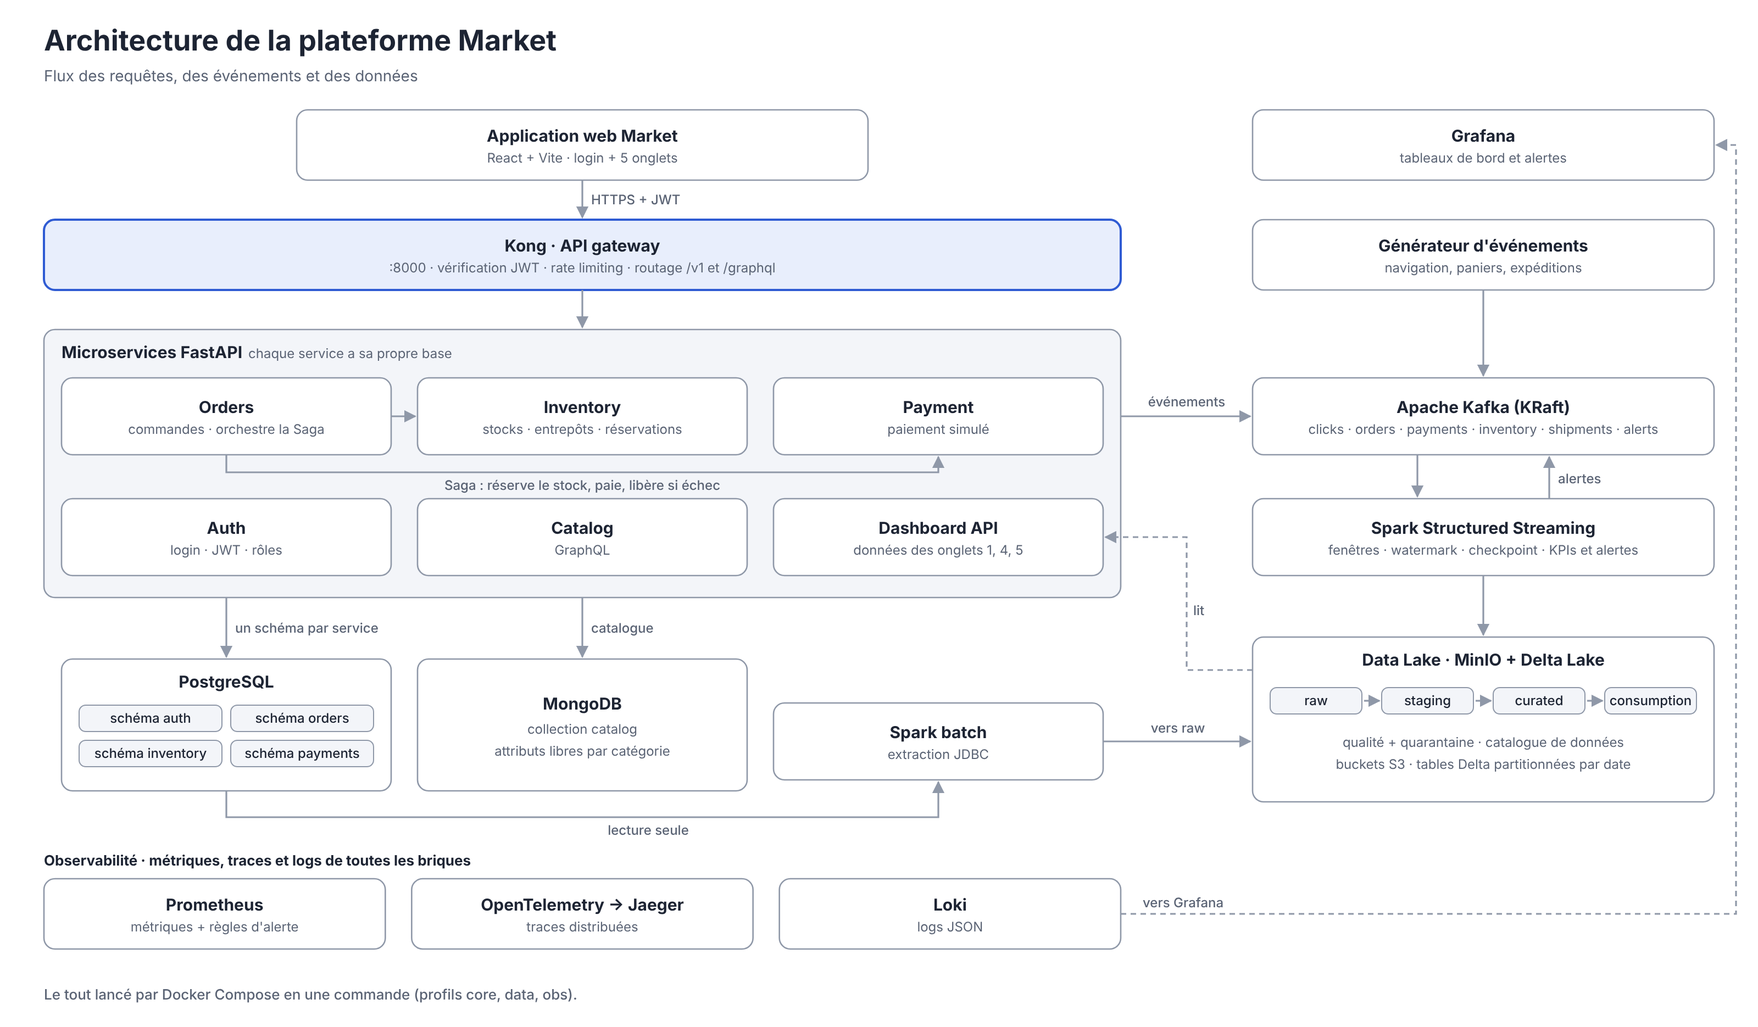
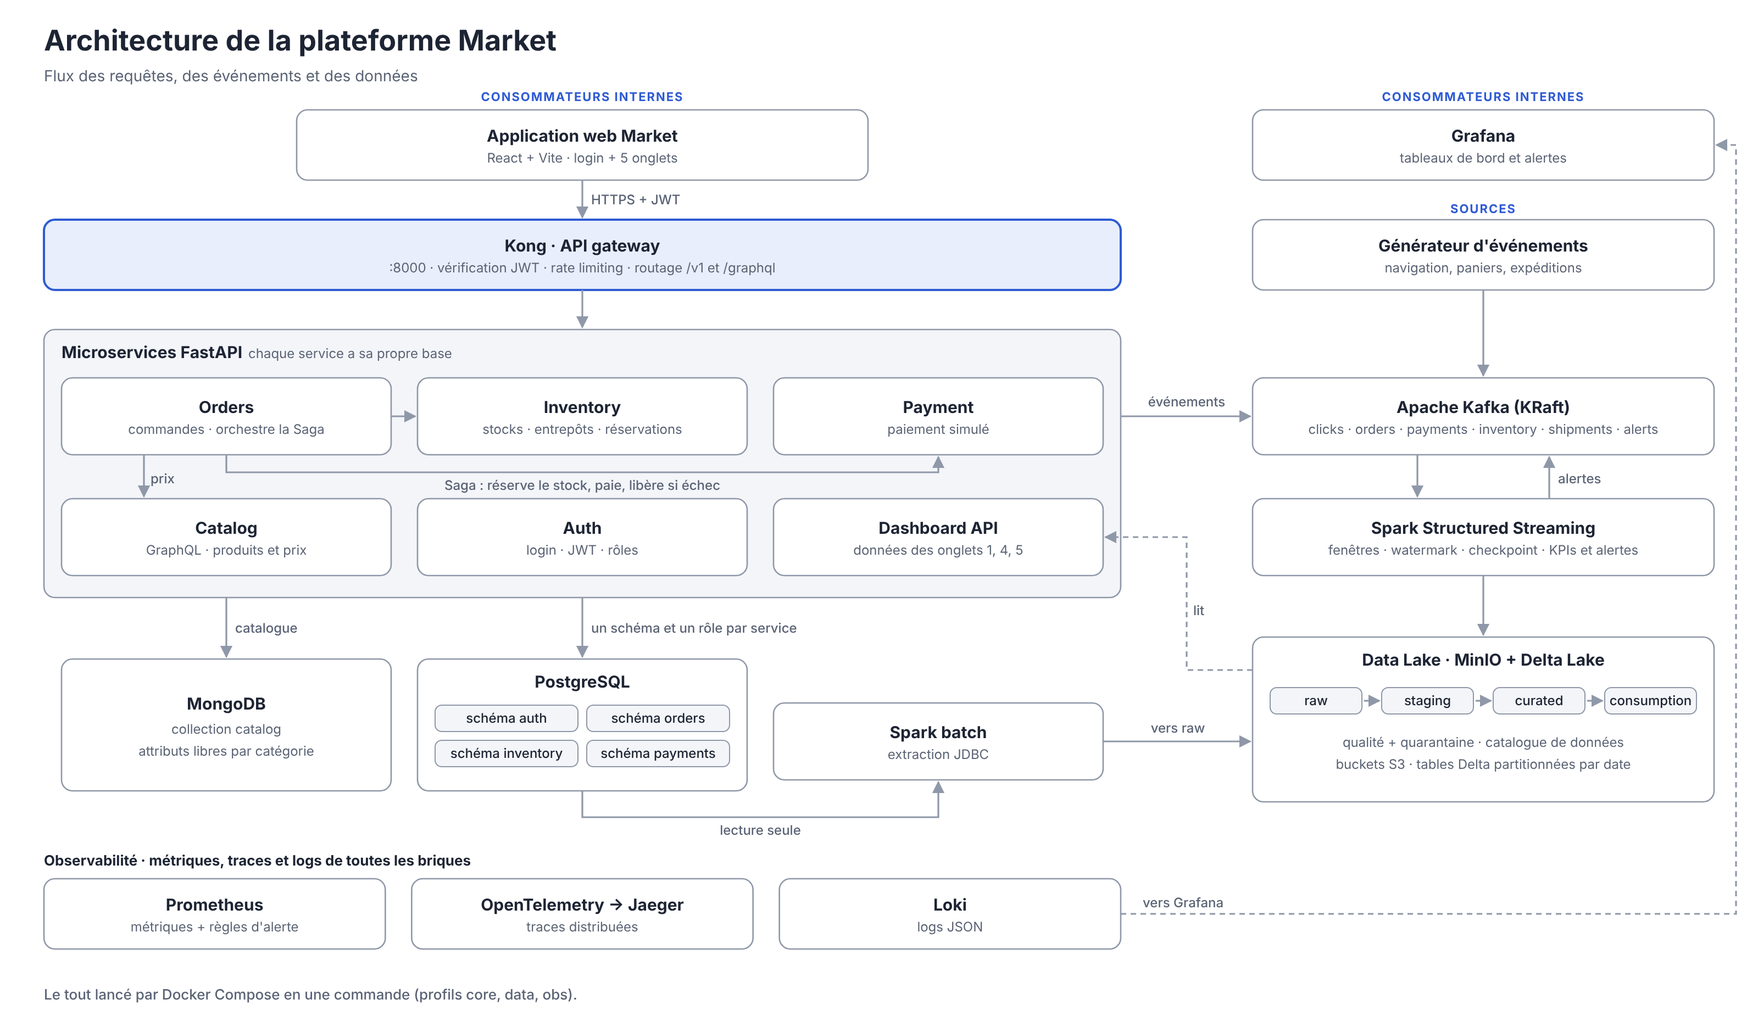
Align with the brief: rights matrix, user id in JWT, role assignment, ADRs per volet
- RBAC matrix now matches the brief table (tested row by row)
- PUT /v1/inventory/{product_id} and POST /v1/admin/roles added to contracts and services
- JWT sub is the user id, never the email
- Diagram: Orders calls Catalog, sources and internal consumers labelled
- Rationale: where streaming is used or not, per role
- ADR 004 (lake), 005 (gateway and resilience), 006 (streaming guarantees)
- Exclude docs from ruff

diff --git a/docs/architecture/build_diagram.py b/docs/architecture/build_diagram.py
@@ -24,11 +24,14 @@ MID = (L0 + L1) / 2
 GAP = (L1 + R0) / 2
 RC = (R0 + R1) / 2
 # row A
+t(MID, 92, "CONSOMMATEURS INTERNES", 11, 700, ACC, "middle", 'letter-spacing="1"')
+t(RC, 92, "CONSOMMATEURS INTERNES", 11, 700, ACC, "middle", 'letter-spacing="1"')
 box(MID - 260, 100, 520, 64, "Application web Market", "React + Vite · login + 5 onglets")
 box(R0, 100, R1 - R0, 64, "Grafana", "tableaux de bord et alertes")
 path(f"M{MID} 164 V198", "HTTPS + JWT", MID + 8, 186)
 # row B
 box(L0, 200, L1 - L0, 64, "Kong · API gateway", ":8000 · vérification JWT · rate limiting · routage /v1 et /graphql", hi=True)
+t(RC, 194, "SOURCES", 11, 700, ACC, "middle", 'letter-spacing="1"')
 box(R0, 200, R1 - R0, 64, "Générateur d'événements", "navigation, paniers, expéditions")
 path(f"M{MID} 264 V298")
 # services container
@@ -39,12 +42,14 @@ bw = (IN - 48) / 3; cx = [L0 + 16, L0 + 16 + bw + 24, L0 + 16 + 2 * (bw + 24)]
 box(cx[0], 344, bw, 70, "Orders", "commandes · orchestre la Saga")
 box(cx[1], 344, bw, 70, "Inventory", "stocks · entrepôts · réservations")
 box(cx[2], 344, bw, 70, "Payment", "paiement simulé")
-box(cx[0], 454, bw, 70, "Auth", "login · JWT · rôles")
-box(cx[1], 454, bw, 70, "Catalog", "GraphQL")
+box(cx[0], 454, bw, 70, "Catalog", "GraphQL · produits et prix")
+box(cx[1], 454, bw, 70, "Auth", "login · JWT · rôles")
 box(cx[2], 454, bw, 70, "Dashboard API", "données des onglets 1, 4, 5")
 path(f"M{cx[0]+bw} 379 H{cx[1]-2}")
 t(cx[0] + bw + 12, 372, "", 11)
 oc, pc = cx[0] + bw / 2, cx[2] + bw / 2
+qx = cx[0] + bw * 0.25
+path(f"M{qx} 414 V452", "prix", qx + 6, 440)
 path(f"M{oc} 414 V430 H{pc} V416", "Saga : réserve le stock, paie, libère si échec", (oc + pc) / 2, 446, "middle")
 # right column streaming
 box(R0, 344, R1 - R0, 70, "Apache Kafka (KRaft)", "clicks · orders · payments · inventory · shipments · alerts")
@@ -67,19 +72,20 @@ t(RC, 680, "qualité + quarantaine · catalogue de données", 12, 400, GREY, "mi
 t(RC, 700, "buckets S3 · tables Delta partitionnées par date", 12, 400, GREY, "middle")
 path(f"M{RC} 524 V578")
 # databases
-r(cx[0], 600, bw, 120)
-t(cx[0] + bw / 2, 626, "PostgreSQL", 15, 700, a="middle")
+r(cx[1], 600, bw, 120)
+t(cx[1] + bw / 2, 626, "PostgreSQL", 15, 700, a="middle")
 cw = (bw - 40) / 2
 for i, s in enumerate(["schéma auth", "schéma orders", "schéma inventory", "schéma payments"]):
-    chip(cx[0] + 16 + (i % 2) * (cw + 8), 642 + (i // 2) * 32, cw, s)
-r(cx[1], 600, bw, 120)
-t(cx[1] + bw / 2, 646, "MongoDB", 15, 700, a="middle")
-t(cx[1] + bw / 2, 668, "collection catalog", 12, 400, GREY, "middle")
-t(cx[1] + bw / 2, 688, "attributs libres par catégorie", 12, 400, GREY, "middle")
+    chip(cx[1] + 16 + (i % 2) * (cw + 8), 642 + (i // 2) * 32, cw, s)
+r(cx[0], 600, bw, 120)
+t(cx[0] + bw / 2, 646, "MongoDB", 15, 700, a="middle")
+t(cx[0] + bw / 2, 668, "collection catalog", 12, 400, GREY, "middle")
+t(cx[0] + bw / 2, 688, "attributs libres par catégorie", 12, 400, GREY, "middle")
 box(cx[2], 640, bw, 70, "Spark batch", "extraction JDBC")
-path(f"M{oc} 544 V598", "un schéma par service", oc + 8, 576)
-path(f"M{cx[1]+bw/2} 544 V598", "catalogue", cx[1] + bw / 2 + 8, 576)
-path(f"M{oc} 720 V744 H{pc} V712", "lecture seule", (oc + pc) / 2 + 60, 760, "middle")
+path(f"M{cx[1]+bw/2} 544 V598", "un schéma et un rôle par service", cx[1] + bw / 2 + 8, 576)
+path(f"M{oc} 544 V598", "catalogue", oc + 8, 576)
+mc = cx[1] + bw / 2
+path(f"M{mc} 720 V744 H{pc} V712", "lecture seule", (mc + pc) / 2, 760, "middle")
 path(f"M{cx[2]+bw} 675 H{R0-2}", "vers raw", (cx[2] + bw + R0) / 2, 667, "middle")
 # lake -> dashboard (reads consumption)
 path(f"M{R0} 610 H{GAP} V489 H{cx[2]+bw+2}", "lit", GAP + 6, 560, dash=True)

diff --git a/services/auth/app/main.py b/services/auth/app/main.py
@@ -52,7 +52,7 @@ def _issue_pair(user_id: int, email: str, roles: list[str]) -> dict:
     refresh = secrets.token_urlsafe(48)
     db.store_refresh_token(user_id, _sha256(refresh), datetime.now(UTC) + timedelta(days=s.refresh_ttl_days))
     return {
-        "access_token": create_access_token(email, roles),
+        "access_token": create_access_token(str(user_id), roles),  # sub = id: no email in the token
         "refresh_token": refresh,
         "token_type": "bearer",
         "expires_in": s.jwt_ttl_minutes * 60,
@@ -91,8 +91,12 @@ def service_token(body: TokenRequest, x_api_key: str = Header(alias="X-API-Key")
 
 @app.get("/v1/auth/me")
 def me(principal: Principal = Depends(current_principal)):
-    user = db.get_user_by_email(principal.subject)
-    return {"id": user["id"] if user else None, "email": principal.subject, "roles": list(principal.roles)}
+    if principal.subject.startswith("svc:"):
+        return {"id": None, "email": None, "roles": list(principal.roles)}
+    user = db.get_user_by_id(int(principal.subject))
+    if not user:
+        raise HTTPException(status.HTTP_401_UNAUTHORIZED, "unknown user")
+    return {"id": user["id"], "email": user["email"], "roles": user["roles"]}
 
 
 @app.get("/v1/admin/users")
@@ -105,3 +109,15 @@ def create_user(body: UserCreate, request: Request, _: Principal = Depends(requi
     if db.get_user_by_email(body.email):
         raise HTTPException(status.HTTP_409_CONFLICT, "email already used")
     return db.create_user(body.email, hash_password(body.password), body.roles)
+
+
+class RolesAssign(BaseModel):
+    user_id: int
+    roles: list[str] = Field(min_length=1)
+
+
+@app.post("/v1/admin/roles")
+def assign_roles(body: RolesAssign, _: Principal = Depends(require("roles:write"))):
+    if not db.get_user_by_id(body.user_id):
+        raise HTTPException(status.HTTP_404_NOT_FOUND, "unknown user")
+    return db.set_roles(body.user_id, body.roles)

diff --git a/tests/unit/test_rbac.py b/tests/unit/test_rbac.py
@@ -14,3 +14,20 @@ def test_matrix_rules_from_the_brief():
     assert not allowed("users:write", ["catalog_manager"])
     assert allowed("payments:create", ["service_account"])
     assert not allowed("payments:create", ["admin"])  # only the orders service pays
+
+
+def test_matrix_matches_the_brief_table():
+    # rows of "Qui a le droit d'appeler quoi" in the project brief
+    expected = {
+        "orders:read": {"admin", "analyst", "logistics", "service_account"},
+        "orders:create": {"admin", "service_account"},
+        "catalog:read": {"admin", "catalog_manager", "analyst", "logistics", "service_account"},
+        "catalog:write": {"admin", "catalog_manager"},
+        "stock:read": {"admin", "analyst", "logistics"},
+        "stock:write": {"admin", "logistics", "service_account"},
+        "dashboard:read": {"admin", "catalog_manager", "analyst", "logistics"},
+        "users:write": {"admin"},
+        "roles:write": {"admin"},
+    }
+    for action, roles in expected.items():
+        assert set(MATRIX[action]) == roles, action

diff --git a/services/auth/app/db.py b/services/auth/app/db.py
@@ -38,6 +38,22 @@ def get_user_by_email(email: str) -> dict | None:
         return conn.execute(_USER_SQL + " WHERE u.email = %s GROUP BY u.id", (email,)).fetchone()
 
 
+def get_user_by_id(user_id: int) -> dict | None:
+    with pool().connection() as conn:
+        return conn.execute(_USER_SQL + " WHERE u.id = %s GROUP BY u.id", (user_id,)).fetchone()
+
+
+def set_roles(user_id: int, roles: list[str]) -> dict:
+    with pool().connection() as conn, conn.transaction():
+        conn.execute("DELETE FROM user_roles WHERE user_id = %s", (user_id,))
+        conn.execute(
+            "INSERT INTO user_roles (user_id, role_id) SELECT %s, id FROM roles WHERE name = ANY(%s)",
+            (user_id, roles),
+        )
+        row = conn.execute(_USER_SQL + " WHERE u.id = %s GROUP BY u.id", (user_id,)).fetchone()
+    return {"id": row["id"], "email": row["email"], "roles": row["roles"]}
+
+
 def list_users() -> list[dict]:
     with pool().connection() as conn:
         rows = conn.execute(_USER_SQL + " GROUP BY u.id ORDER BY u.id").fetchall()

diff --git a/services/common/market_common/rbac.py b/services/common/market_common/rbac.py
@@ -13,20 +13,21 @@ SERVICE = "service_account"
 ALL_ROLES = (ADMIN, CATALOG_MANAGER, ANALYST, LOGISTICS, SERVICE)
 HUMAN_ROLES = (ADMIN, CATALOG_MANAGER, ANALYST, LOGISTICS)
 
-# action -> roles allowed
+# action -> roles allowed. Follows the rights matrix of the brief (section "Matrice des droits").
 MATRIX: dict[str, tuple[str, ...]] = {
     # auth
     "users:read": (ADMIN,),
     "users:write": (ADMIN,),
+    "roles:write": (ADMIN,),
     # orders
-    "orders:read": (ADMIN, ANALYST, LOGISTICS),
+    "orders:read": (ADMIN, ANALYST, LOGISTICS, SERVICE),
     "orders:create": (ADMIN, SERVICE),
     # catalog
     "catalog:read": ALL_ROLES,
     "catalog:write": (ADMIN, CATALOG_MANAGER),
     # inventory
     "stock:read": (ADMIN, LOGISTICS, ANALYST),
-    "stock:write": (ADMIN, LOGISTICS),
+    "stock:write": (ADMIN, LOGISTICS, SERVICE),
     "stock:reserve": (ADMIN, SERVICE),
     # payments
     "payments:create": (SERVICE,),

diff --git a/services/inventory/app/main.py b/services/inventory/app/main.py
@@ -16,6 +16,7 @@ app = create_app("inventory", "Market Inventory API")
 
 
 class StockSet(BaseModel):
+    warehouse_id: int
     quantity: int = Field(ge=0)
 
 
@@ -43,8 +44,8 @@ def list_stock(product_id: int | None = None, below: int | None = None, _: Princ
     _todo("stock lines")
 
 
-@app.patch("/v1/inventory/stock/{product_id}/{warehouse_id}")
-def set_stock(product_id: int, warehouse_id: int, body: StockSet, _: Principal = Depends(require("stock:write"))):
+@app.put("/v1/inventory/{product_id}")
+def set_stock(product_id: int, body: StockSet, _: Principal = Depends(require("stock:write"))):
     _todo("set stock level + stock_adjusted event")
 
 

diff --git a/docs/architecture/justification.md b/docs/architecture/justification.md
@@ -43,7 +43,7 @@ Ce document explique pourquoi chaque brique de la plateforme Market a été choi
 
 ### Authentification : JWT de 15 minutes et refresh token
 
-- **Pourquoi :** le JWT est sans état : Kong et chaque service le vérifient avec la même clé, sans appeler le service Auth à chaque requête. La durée courte limite l'impact d'un vol ; le refresh token est à usage unique et stocké haché en base. Les mots de passe sont hachés avec bcrypt.
+- **Pourquoi :** le JWT est sans état : Kong et chaque service le vérifient avec la même clé, sans appeler le service Auth à chaque requête. Il contient l'identifiant de l'utilisateur (`sub`), ses rôles et sa date d'expiration, jamais son email : un JWT est signé mais lisible. La durée courte limite l'impact d'un vol ; le refresh token est à usage unique et stocké haché en base. Les mots de passe sont hachés avec bcrypt.
 - **Comptes de service :** le service Orders obtient son propre token (rôle `service_account`) pour appeler Inventory et Payment.
 - **Écarté :** des sessions côté serveur, qu'il faudrait partager entre tous les services.
 
@@ -59,7 +59,7 @@ Ce document explique pourquoi chaque brique de la plateforme Market a été choi
 
 ### Saga orchestrée par le service Orders
 
-- **Pourquoi :** une commande touche trois services qui ont chacun leur base. Une transaction unique est impossible ; la Saga enchaîne les étapes (réserver le stock, payer, confirmer) et compense en cas d'échec (paiement refusé au-delà de 200 €, stock libéré). Chaque étape est tracée dans `orders.saga_log`.
+- **Pourquoi :** une commande touche trois services qui ont chacun leur base. Orders appelle aussi Catalog pour vérifier que le `product_id` existe et relire le prix au moment de la commande. Une transaction unique est impossible ; la Saga enchaîne les étapes (réserver le stock, payer, confirmer) et compense en cas d'échec (paiement refusé au-delà de 200 €, stock libéré). Chaque étape est tracée dans `orders.saga_log`.
 - **Orchestration plutôt que chorégraphie :** le déroulé est lisible à un seul endroit, plus simple à tester et à expliquer.
 - **Écarté :** la transaction distribuée en deux phases (2PC), lente et fragile si un participant tombe.
 
@@ -128,7 +128,21 @@ Ce document explique pourquoi chaque brique de la plateforme Market a été choi
 - **Rôle :** extraction périodique de PostgreSQL vers la zone raw (JDBC, rôle en lecture seule), puis promotion de zone en zone.
 - **Pourquoi :** même moteur et même code que le streaming.
 
-## 5. Observabilité
+## 5. Où le temps réel est vraiment utile
+
+Le streaming coûte plus cher qu'un traitement par lot (plus de ressources, de réglages et de surveillance). On ne l'utilise que là où l'attente se paie, en suivant le tableau du sujet.
+
+| Rôle | Besoin | Choix | Indicateurs suivis |
+| --- | --- | --- | --- |
+| service_account (paiement) | Détecter un échec de paiement avant la fin de la commande | Streaming, événements traités au fil de l'eau, exactly-once | Latence p99 < 2 s, aucun doublon ni perte, reprise < 30 s |
+| logistics | Voir une rupture proche ou un entrepôt au-dessus de 90 % | Streaming, fenêtres glissantes d'une minute, Kafka partitionné par `warehouse_id` | Latence p95 < 5 s, débit en messages par seconde |
+| admin | Savoir en quelques secondes qu'un service ou Kafka se dégrade | Métriques collectées toutes les 5 s, alerte sur le lag | Lag < 1 000 messages, délai panne vers alerte < 10 s |
+| analyst | Ventes du jour, panier abandonné, pic de commandes | Micro-batch de 30 s à 1 min, agrégats pré-calculés, fenêtre de session de 30 min pour les paniers | Fraîcheur < 60 s, API p95 < 500 ms |
+| catalog_manager | Voir un changement de prix pris en compte | Pas de streaming : une API classique suffit, un événement `product_updated` met à jour le lake | Prise en compte < 1 min |
+
+La démonstration temps réel porte sur la logistique (rupture de stock proche) et le paiement, là où le besoin est le plus fort. Pour l'analyste et le catalogue, ne pas faire de streaming est un choix assumé, pas un oubli.
+
+## 6. Observabilité
 
 | Brique | Rôle | Pourquoi | Écarté |
 | --- | --- | --- | --- |
@@ -136,12 +150,12 @@ Ce document explique pourquoi chaque brique de la plateforme Market a été choi
 | OpenTelemetry + Jaeger | Traces distribuées | Suivre une requête de Kong à Orders, Inventory et Payment ; standard ouvert, indépendant de l'outil d'affichage | Zipkin, moins complet |
 | Loki | Logs | Logs JSON consultables dans Grafana, léger | Elasticsearch, gourmand en mémoire |
 
-## 6. Déploiement : Docker Compose
+## 7. Déploiement : Docker Compose
 
 - **Pourquoi :** le sujet exige un démarrage en une commande. Trois profils (core, data, obs) permettent de lancer une partie seulement sur un ordinateur limité en mémoire.
 - **Écarté :** Kubernetes, adapté à la production mais disproportionné pour une démonstration sur un ordinateur portable.
 
-## 7. Limites assumées
+## 8. Limites assumées
 
 - **Un seul nœud** pour chaque composant (PostgreSQL, Kafka, MinIO) : pas de haute disponibilité, acceptable pour une démonstration et mentionné comme évolution.
 - **Paiement simulé** : la règle des 200 € remplace un vrai prestataire.

diff --git a/docs/adr/006-streaming-guarantees.md b/docs/adr/006-streaming-guarantees.md
@@ -1,0 +1,34 @@
+# ADR-006: Spark Structured Streaming with exactly-once into Delta, and where we do not stream
+
+- Status: proposed
+- Date: 2026-11-13
+- Owner: Ilyes
+- Volet: 4 (Real time)
+
+## Context
+
+Kafka carries clicks, orders, payments, stock moves and shipments. Logistics and payment need alerts within seconds; analysts are fine with data under a minute old; the catalog team does not need streaming. If the job crashes it must restart where it stopped, without losing or counting twice an event.
+
+## Options considered
+
+| Option | For | Against |
+| --- | --- | --- |
+| Spark Structured Streaming | Windows, watermark, state, checkpoint; same engine as batch; native Delta sink | Micro-batch latency (seconds, not milliseconds) |
+| Apache Flink | Lowest latency, rich state | A second engine to learn and run |
+| Kafka Streams | Light, inside a service | Java only, no direct lake output |
+
+Delivery level: at-least-once with deduplication, or exactly-once end to end.
+
+## Decision
+
+- Spark Structured Streaming, checkpoints on MinIO.
+- **Exactly-once into the lake**: Kafka offsets are stored in the checkpoint and the Delta sink commits each micro-batch once (idempotent on batch id).
+- **At-least-once for alerts** written to the `alerts` topic, with a deterministic `alert_id`; the dashboard drops duplicates.
+- Sliding one-minute windows with a two-minute watermark for KPIs; 30-minute session windows for abandoned carts; Kafka partitioned by `warehouse_id` for stock and shipments.
+- No streaming for the catalog team (plain API) and micro-batches of 30 s to 1 min for analysts (see `docs/architecture/justification.md`, section 5).
+
+## Consequences
+
+- Demo: kill the streaming container, restart it, counts in the lake are identical to the number of Kafka messages.
+- Lag, messages per second and errors are on Grafana (kafka-exporter + Spark metrics); adding partitions makes the lag drop.
+- Plan B if latency is not enough: lower the trigger interval, or move the payment alert to a small Kafka consumer service.

diff --git a/docs/adr/004-delta-lake-and-zones.md b/docs/adr/004-delta-lake-and-zones.md
@@ -1,0 +1,36 @@
+# ADR-004: Delta Lake on MinIO, organised in four zones
+
+- Status: proposed
+- Date: 2026-11-13
+- Owner: Ilyes
+- Volet: 2 (Data Lake & Lakehouse)
+
+## Context
+
+Events arrive continuously from Kafka and operational data is extracted in batch from PostgreSQL. Analysts need clean, queryable tables; logistics needs fill rates within seconds. Files must never be half written, and we must be able to go back to an older version of a table. Personal data (customer email) must not reach the analytical zones in clear.
+
+## Options considered
+
+| Option | For | Against |
+| --- | --- | --- |
+| Plain Parquet files on MinIO | Simple, columnar | No transactions: a crashed job leaves partial files; no history |
+| Delta Lake on MinIO | ACID commits, time travel, MERGE, idempotent streaming sink, native in Spark | Small files need periodic compaction |
+| Apache Iceberg on MinIO | Same guarantees, engine-neutral | Needs a catalog service; less direct with our Spark setup |
+
+## Decision
+
+Delta Lake on MinIO (S3 API), four buckets:
+
+- **raw**: data as received, append only, never modified;
+- **staging**: typed, deduplicated on `event_id`, quality checks, failed rows to `quarantine`, email replaced by a salted SHA-256 hash;
+- **curated**: joined business tables;
+- **consumption**: aggregates for the dashboard.
+
+A row moves to the next zone only after the checks of that zone pass. Each job updates `lake/catalog.yaml` (source, owner, zone, last update).
+
+## Consequences
+
+- Delta + Spark checkpoint gives exactly-once writes into the lake (see ADR-006).
+- Time travel is shown in the demo (`VERSION AS OF`).
+- Streaming creates many small files: a compaction job (`OPTIMIZE`) runs on curated and consumption.
+- Plan B: Iceberg, if a shared catalog with another engine becomes necessary.

diff --git a/docs/adr/005-gateway-and-resilience.md b/docs/adr/005-gateway-and-resilience.md
@@ -1,0 +1,32 @@
+# ADR-005: Kong as API gateway, resilience in each service
+
+- Status: proposed
+- Date: 2026-11-13
+- Owner: Philip
+- Volet: 3 (Platform & API)
+
+## Context
+
+Six services must be reachable through one entry point that checks who calls (JWT) and limits calls. A slow or down payment service must not block order taking, and a retried request must not create two orders.
+
+## Options considered
+
+| Option | For | Against |
+| --- | --- | --- |
+| Kong (DB-less) | JWT and rate limiting plugins, declarative config in Git, Prometheus plugin | Heavier than a plain proxy |
+| Traefik | Light, auto-discovery from Docker | No complete JWT verification without extra middleware |
+| NGINX | Very fast, well known | JWT and rate limiting per route to write by hand |
+
+For resilience: a service mesh (Istio) versus a small shared library.
+
+## Decision
+
+- Kong checks the token (401) and limits calls; each service checks the role (403).
+- A shared `ResilientClient` (httpx + tenacity + pybreaker + semaphore) for every outbound call: 2 s timeout, 3 retries on network errors and 502/503/504, circuit breaker opening after 5 failures for 30 s, at most 10 concurrent calls per dependency.
+- Orchestrated Saga in Orders; `Idempotency-Key` header on every state-changing POST.
+
+## Consequences
+
+- Availability over waiting: when the breaker is open, the API answers 503 immediately.
+- Demo: stop the payment container, place orders, the breaker opens and Grafana shows the service degraded.
+- A mesh would move this out of the code; rejected as too heavy for a laptop demo.

diff --git a/docs/rbac.md b/docs/rbac.md
@@ -1,16 +1,16 @@
 # Roles and rights (RBAC)
 
-Source of truth in code: `services/common/market_common/rbac.py`. Kong refuses a missing or expired token (401); each service refuses a role that is not allowed (403) and logs the refusal (who, what, when).
+Source of truth in code: `services/common/market_common/rbac.py`. It follows the rights matrix of the brief; `tests/unit/test_rbac.py` checks it row by row. Kong refuses a missing or expired token (401); each service refuses a role that is not allowed (403) and logs the refusal (who, what, when).
 
 | Action | admin | catalog_manager | analyst | logistics | service_account |
 | --- | :-: | :-: | :-: | :-: | :-: |
-| Read / create users | ✓ | | | | |
-| Read orders | ✓ | | ✓ | ✓ | |
+| Create users, assign roles (`POST /v1/admin/users`, `/v1/admin/roles`) | ✓ | | | | |
+| Read orders (`GET /v1/orders`) | ✓ | | ✓ | ✓ | ✓ |
 | Create an order | ✓ | | | | ✓ |
 | Read catalog | ✓ | ✓ | ✓ | ✓ | ✓ |
 | Create / edit products | ✓ | ✓ | | | |
 | Read stock and warehouses | ✓ | | ✓ | ✓ | |
-| Change stock | ✓ | | | ✓ | |
+| Change stock (`PUT /v1/inventory/{id}`) | ✓ | | | ✓ | ✓ |
 | Reserve / release stock (Saga) | ✓ | | | | ✓ |
 | Create a payment | | | | | ✓ |
 | Read payments | ✓ | | ✓ | | |
